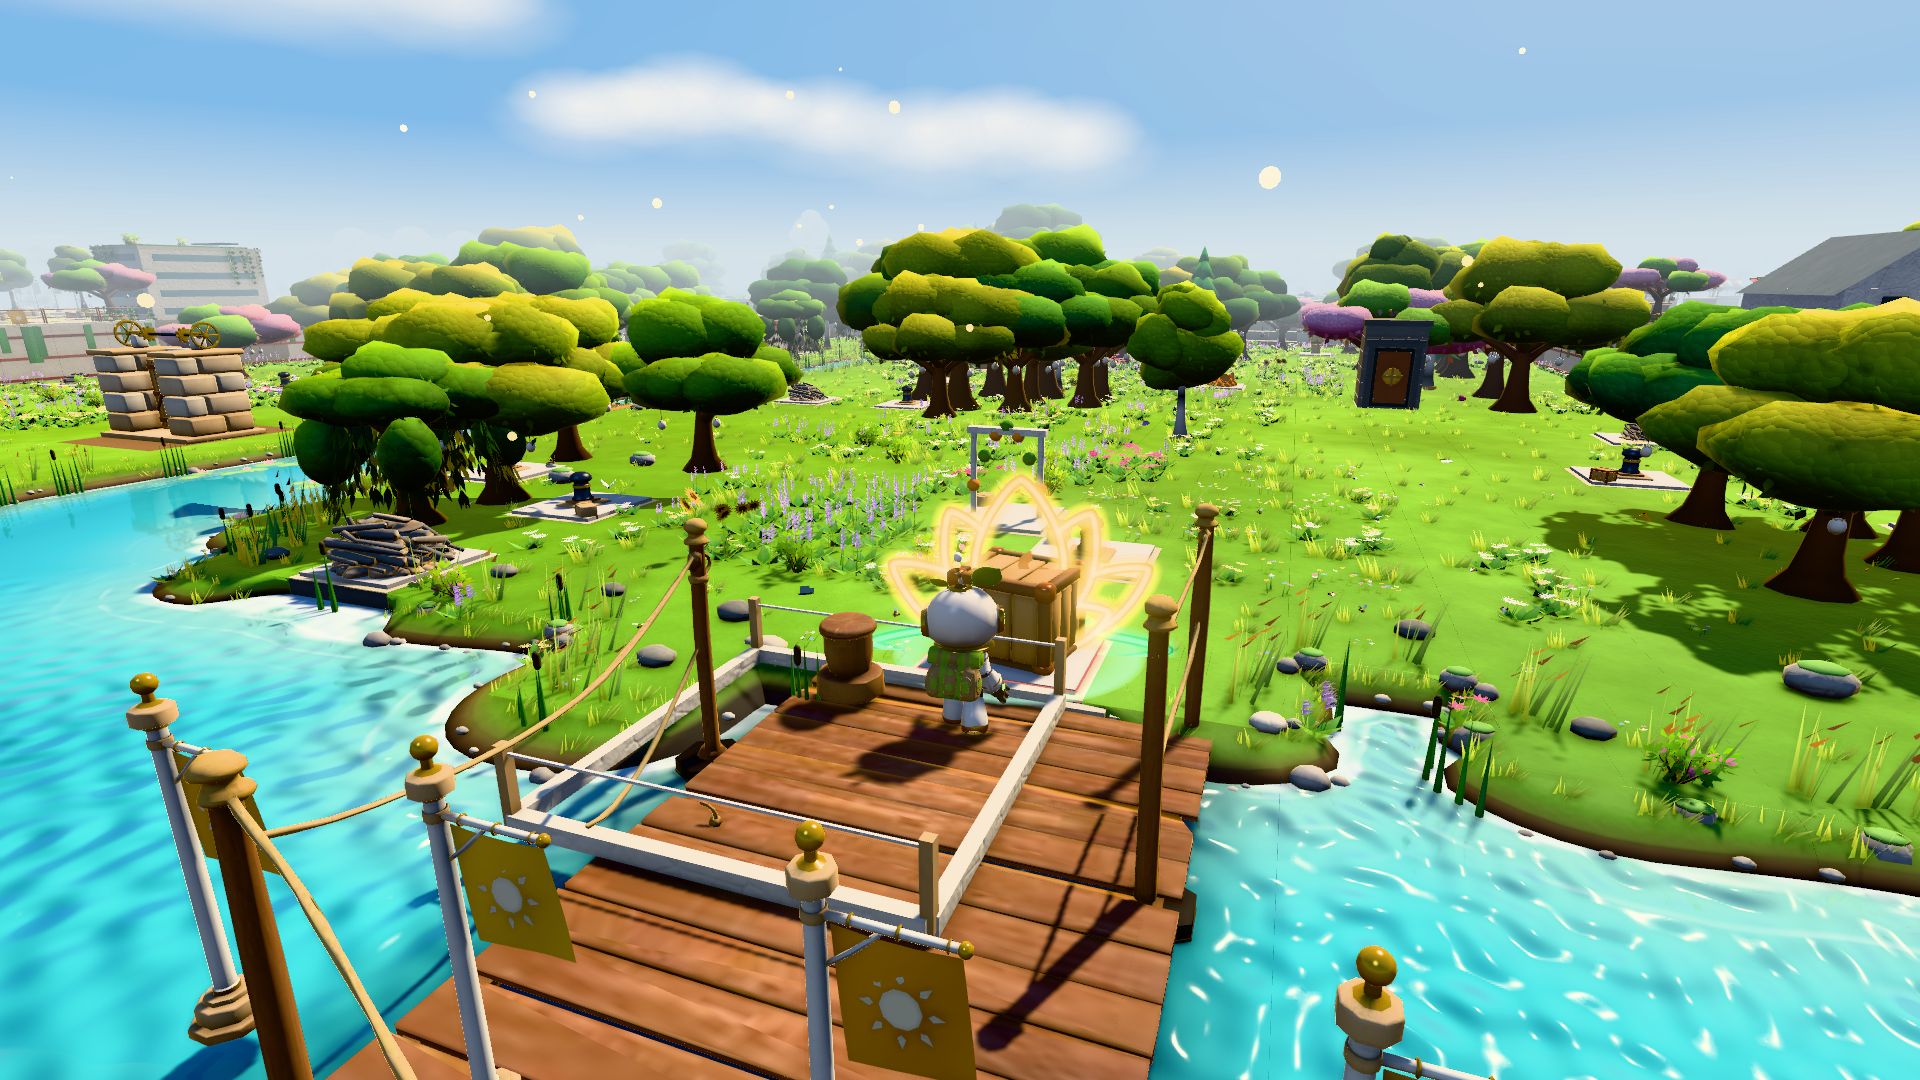
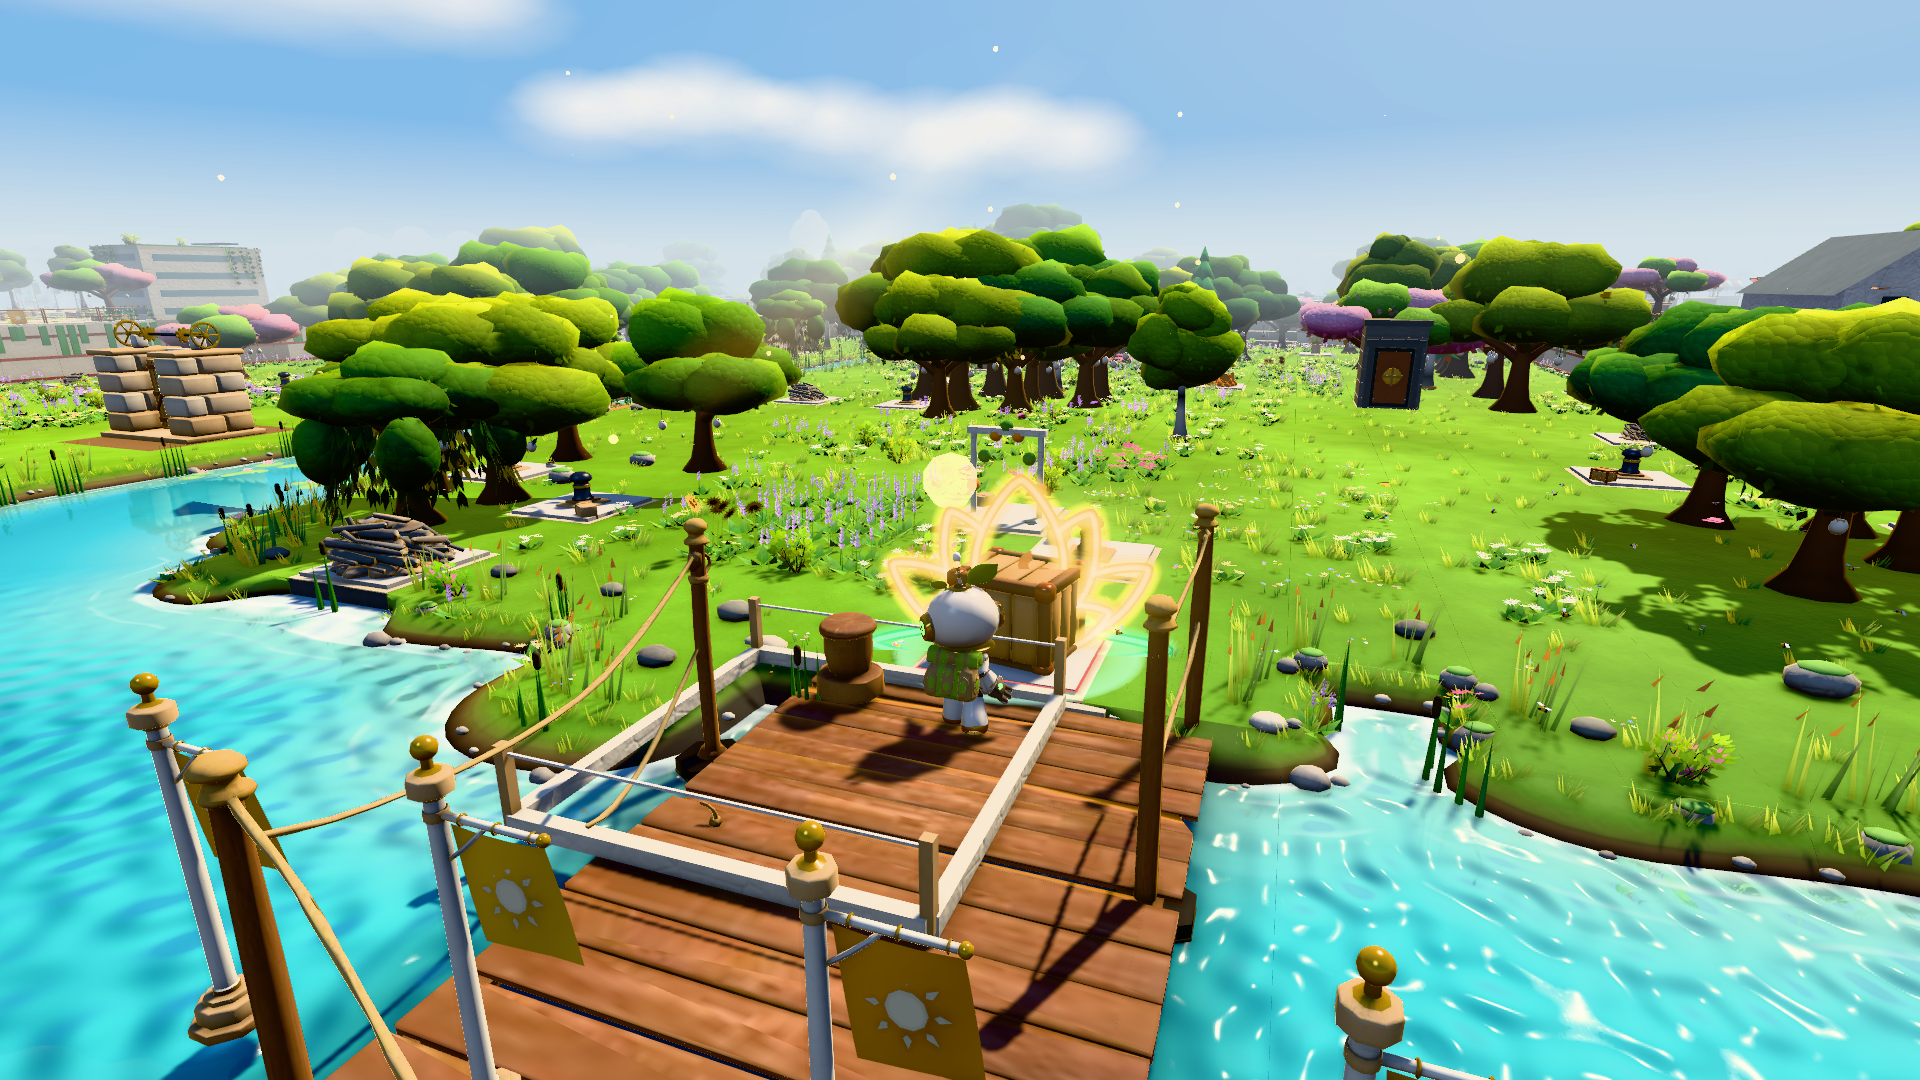
P7-E29: re-shot mid shore and late third after the polish pass
Claude-Session: https://claude.ai/code/session_01SpBr3NSoVtgbNs1WgsBB2M

diff --git a/docs/review/p7/e29/README.md b/docs/review/p7/e29/README.md
@@ -9,15 +9,15 @@ which has no trees). Base was taken on E27 work in progress, so part of the lumi
 |---|---|---|---|---|
 | mid third | 1090 → 1097 | 258k → 444k | 164.6 → 150.1 | 0.04 → 0.04 |
 | mid iso | 1102 → 1096 | 118k → 260k | 195.7 → 193 | 0 → 0 |
-| mid shore | 808 → 718 | 265k → 445k | 175.8 → 154.3 | 0 → 0 |
-| late third | 1674 → 1684 | 1095k → 1497k | 157 → 141.2 | 0.04 → 0.05 |
+| mid shore | 808 → 904 | 265k → 439k | 175.8 → 156.6 | 0 → 0 |
+| late third | 1674 → 1674 | 1095k → 1493k | 157 → 140.2 | 0.04 → 0.05 |
 | late iso | 1487 → 1492 | 582k → 963k | 183.2 → 182.5 | 0 → 0 |
 | late shore | 1310 → 1309 | 1102k → 1503k | 171.2 → 154.4 | 0.01 → 0 |
 
 Early (nothing restored, no trees): 1040 / 1042 / 800 draw calls, 14–25k foliage triangles.
 
-Draw calls stay within +5% (trees merge into each chunk's foliage mesh; the shore view drops because the canopy
-hides chunks behind it). Foliage triangles rise 28–98% with the new canopy: per tree, normal detail is
+Draw calls stay within +12% (trees merge into each chunk's foliage mesh; budget +25%). mid shore and late third
+were re-shot after the polish pass (softer sunlit tops, no fade speckle). Foliage triangles rise 28–98% with the new canopy: per tree, normal detail is
 636–4.4k (pine–oak), far 296–480.
 Mean luminance falls in the third-person and shore views because shade now falls on the restored ground.
 
